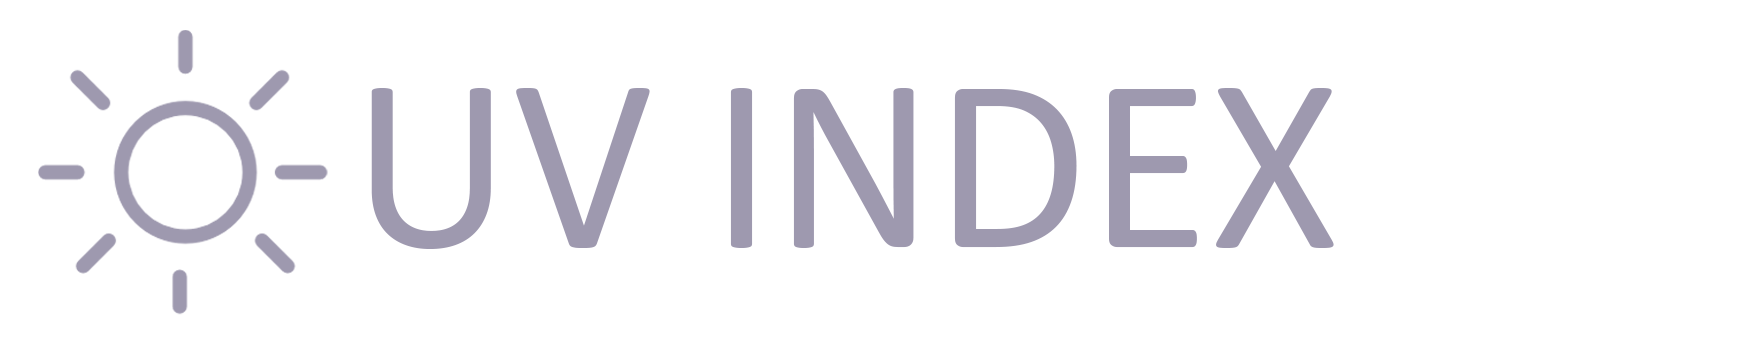
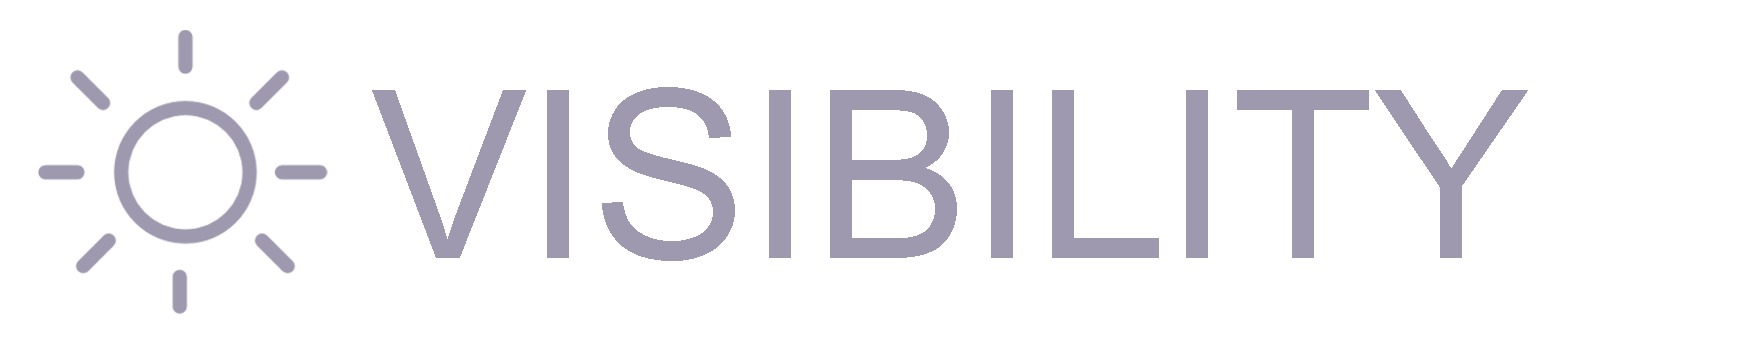
Refactor .gitignore and Main component CSS and JS files

Changed region(s): [[0.1849, 0.2332, 0.8938, 0.758]]

diff --git a/src/Components/Main.js b/src/Components/Main.js
@@ -7,7 +7,7 @@ import ForcastCard from './ForcastCard';
 
 export default function Main() {
   const [fillColor, setFillColor] = useState('');
-  const [uvStatus, setUvStatus] = useState('');
+  const [visibilityStatus, setVisibilityStatus] = useState('');
   const [showSearchBox, setShowSearchBox] = useState(false);
   const [showSetLocation, setShowSetLocation] = useState(true);
   const [overlayStyle, setOverlayStyle] = useState({});
@@ -17,34 +17,59 @@ export default function Main() {
   const [locationMinimaliseHeading, setLocationMinimaliseHeading] = useState({ display: 'none' });
 
   const [locationName, setLocationName] = useState('Piliyandala');
-  const [uvIndex, setUvIndex] = useState(5);
+  const [visibility, setVisibility] = useState();
   const [temp, setTemp] = useState(35);
   const [description, setDescription] = useState('Partly Cloudy');
   const [humidity, setHumidity] = useState(0);
-  const [rain, setRain] = useState(0);
+  const [pressure, setPressure] = useState(0);
   const [wind, setWind] = useState(0);
   const [sunrise, setSunrise] = useState('5.53AM');
   const [sunset, setSunset] = useState('6.00PM');
 
+  async function getWetherData(){
+    const response = await fetch(`https://api.openweathermap.org/data/2.5/weather?q=Piliyandala&appid=${process.env.REACT_APP_WEATHER_API_KEY}&units=metric`);
+    const data = await response.json();
+    setLocationName('Colombo');
+    setTemp(data["main"]["temp"]);
+    setDescription(data["weather"][0]["main"]);
+    setHumidity(data["main"]["humidity"]+'%');
+    setPressure(data["main"]["pressure"]+'hPa');
+    setSunrise(converTime(data["sys"]["sunrise"]));
+    setSunset(converTime(data["sys"]["sunset"]));
+    setWind(data["wind"]["speed"]);
+    setVisibility(data["visibility"]+'Km');
+  }
+
+  function converTime(unixTimestamp) {
+    const date = new Date(unixTimestamp * 1000); 
+    const options = {
+        hour: 'numeric',
+        minute: '2-digit',
+        hour12: true,
+        timeZone: 'UTC' 
+    };
+    return new Intl.DateTimeFormat('en-US', options).format(date);
+}
+
   useEffect(() => {
     let fillColor = '';
-    let uvStatus = '';
-    if (uvIndex <= 2) {
-      fillColor = '#00FF00';
-      uvStatus = 'LOW';
-    } else if (uvIndex <= 5) {
+    let visibilityStatus = '';
+    if (visibility <= 1000) {
+      fillColor = '#FF0000';
+      visibilityStatus = 'VERY POOR';
+    } else if (visibility <= 4999) {
+      fillColor = '##FFA500';
+      visibilityStatus = 'POOR';
+    } else if (visibility <= 9999) {
       fillColor = '#FFFF00';
-      uvStatus = 'MODERATE';
-    } else if (uvIndex <= 7) {
-      fillColor = '#FFA500';
-      uvStatus = 'HIGH';
+      visibilityStatus = 'MODERATE';
     } else {
-      fillColor = '#FF4500';
-      uvStatus = 'VERY HIGH';
+      fillColor = '#008000';
+      visibilityStatus = 'GOOD';
     }
     setFillColor(fillColor);
-    setUvStatus(uvStatus);
-  }, [uvIndex]);
+    setVisibilityStatus(visibilityStatus);
+  }, [visibility]);
 
   const searchLocation = () => {
     setShowSearchBox(false);
@@ -83,6 +108,8 @@ export default function Main() {
     setShowSetLocation(true);
   };
 
+  getWetherData();
+
   return (
     <div className="app">
       <div className="app-container">
@@ -103,16 +130,6 @@ export default function Main() {
         </div>
 
         <div className="min-info">
-          <div className="min-info-icon">
-            <img className="min-info-icons" src="./Assets/Images/humidity.png" />
-            <p className="min-info-icon-name">Humidity</p>
-          </div>
-          <p className="min-info-value text-light ms-1">{humidity}</p>
-          <div className="min-info-icon ms-5">
-            <img className="min-info-icons2" src="./Assets/Images/rain.png" />
-            <p className="min-info-icon-name">Rain</p>
-          </div>
-          <p className="min-info-value text-light ms-1">{rain}</p>
           {showSearchBox && (
             <div className="searchBox">
               <Form.Control className="searchBoxInput" type="text" placeholder="Search by city" />
@@ -123,7 +140,7 @@ export default function Main() {
             </div>
           )}
           {showSetLocation && (
-            <div className="getLocation ms-3" onClick={toggleSearchBox}>
+            <div className="getLocation" onClick={toggleSearchBox}>
               <img className="arrow" src="./Assets/Images/search.png" />
             </div>
           )}
@@ -141,7 +158,7 @@ export default function Main() {
             </div>
           )}
           <div className="preview-header">
-            <p className="forcast-type text-light">Hourly Forecast</p>
+            <p className="forcast-type text-light">More Weather Informations</p>
             <hr className="divider text-light"></hr>
           </div>
           <Swiper className="ms-3" slidesPerView={4} spaceBetween={18} slidesPerGroup={1}>
@@ -166,12 +183,12 @@ export default function Main() {
               <div className="info-bar">
                 <img className="info-icons" src="./Assets/Images/uv-index.png" />
               </div>
-              <p className="text-light hb1">{uvIndex}</p>
-              <p className="text-light hb2">{uvStatus}</p>
+              <p className="text-light hb1">{visibility}</p>
+              <p className="text-light hb2">{visibilityStatus}</p>
               <ProgressBar
                 className="uv-scale"
                 variant="light"
-                now={100 - uvIndex * 10}
+                now={10000 - visibility}
                 style={{ marginLeft: '6%', marginTop: '1%', height: '1px', width: '85%', backgroundColor: `${fillColor}` }}
               />
             </div>
@@ -188,7 +205,7 @@ export default function Main() {
                   <img className="info-icons" src="./Assets/Images/wind.png" />
                 </div>
                 <p className="text-light hb4">{wind}</p>
-                <p className="text-light hb5">Km/h</p>
+                <p className="text-light hb5">Metre/Sec</p>
               </div>
             </div>
           </div>

diff --git a/src/Components/Main.css b/src/Components/Main.css
@@ -56,7 +56,7 @@ p{
     margin-top: -5%;
 }
 .main-weather-description{
-    font-size: 100%;
+    font-size: 120%;
     margin-top: -5%;
     font-weight: 500;
     color: #9e99af;
@@ -94,27 +94,6 @@ p{
     align-items: center;
     margin-top: 0%;
     height: 7%;
-}
-.min-info-icon{
-    display: flex;
-    flex-direction: column;
-    align-items: center;
-    justify-content: center;
-    height: 100%;
-}
-.min-info-icons{
-    height: 50%;
-}
-.min-info-icons2{
-    height: 45%;
-}
-.min-info-icon-name{
-    color: #9e99af;
-    font-size: 70%;
-    margin-bottom: -20%;
-}
-.min-info-value{
-    font-size: 110%;
 }
 .footer{
     position: absolute;
